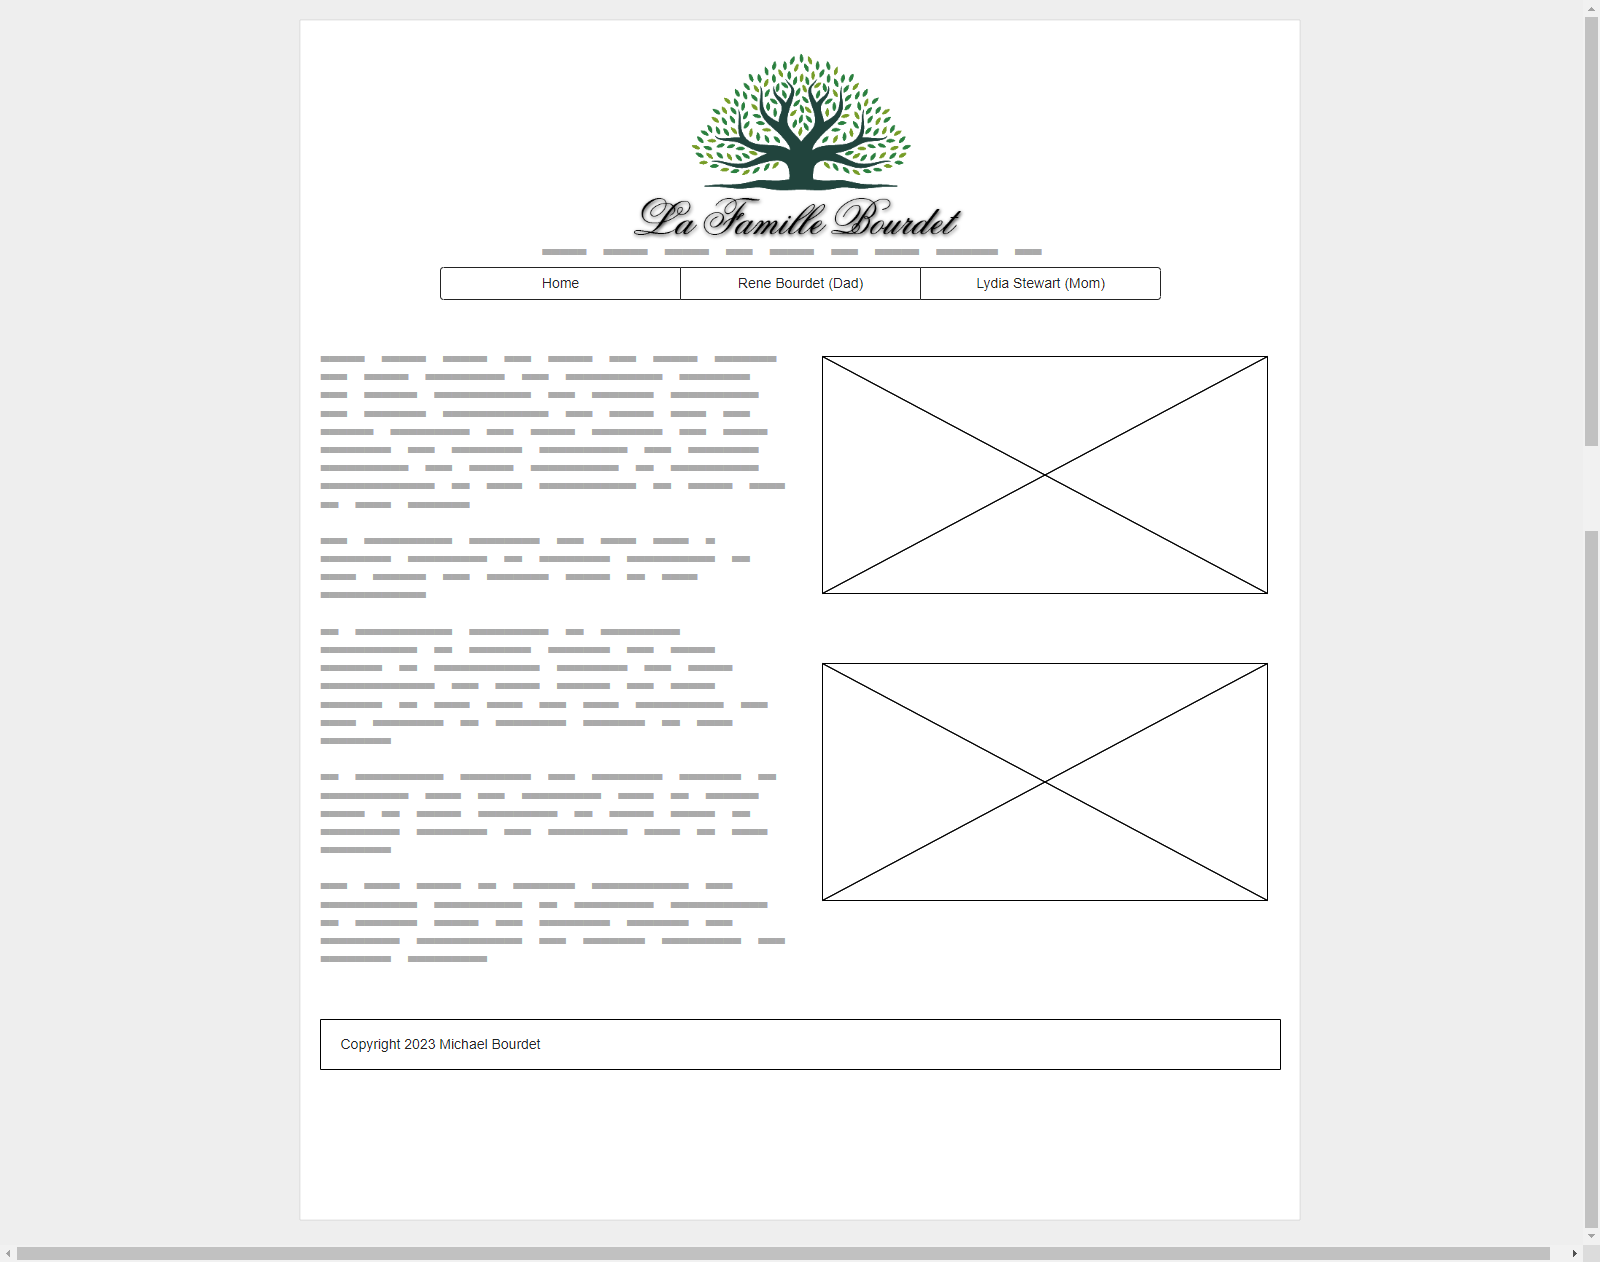
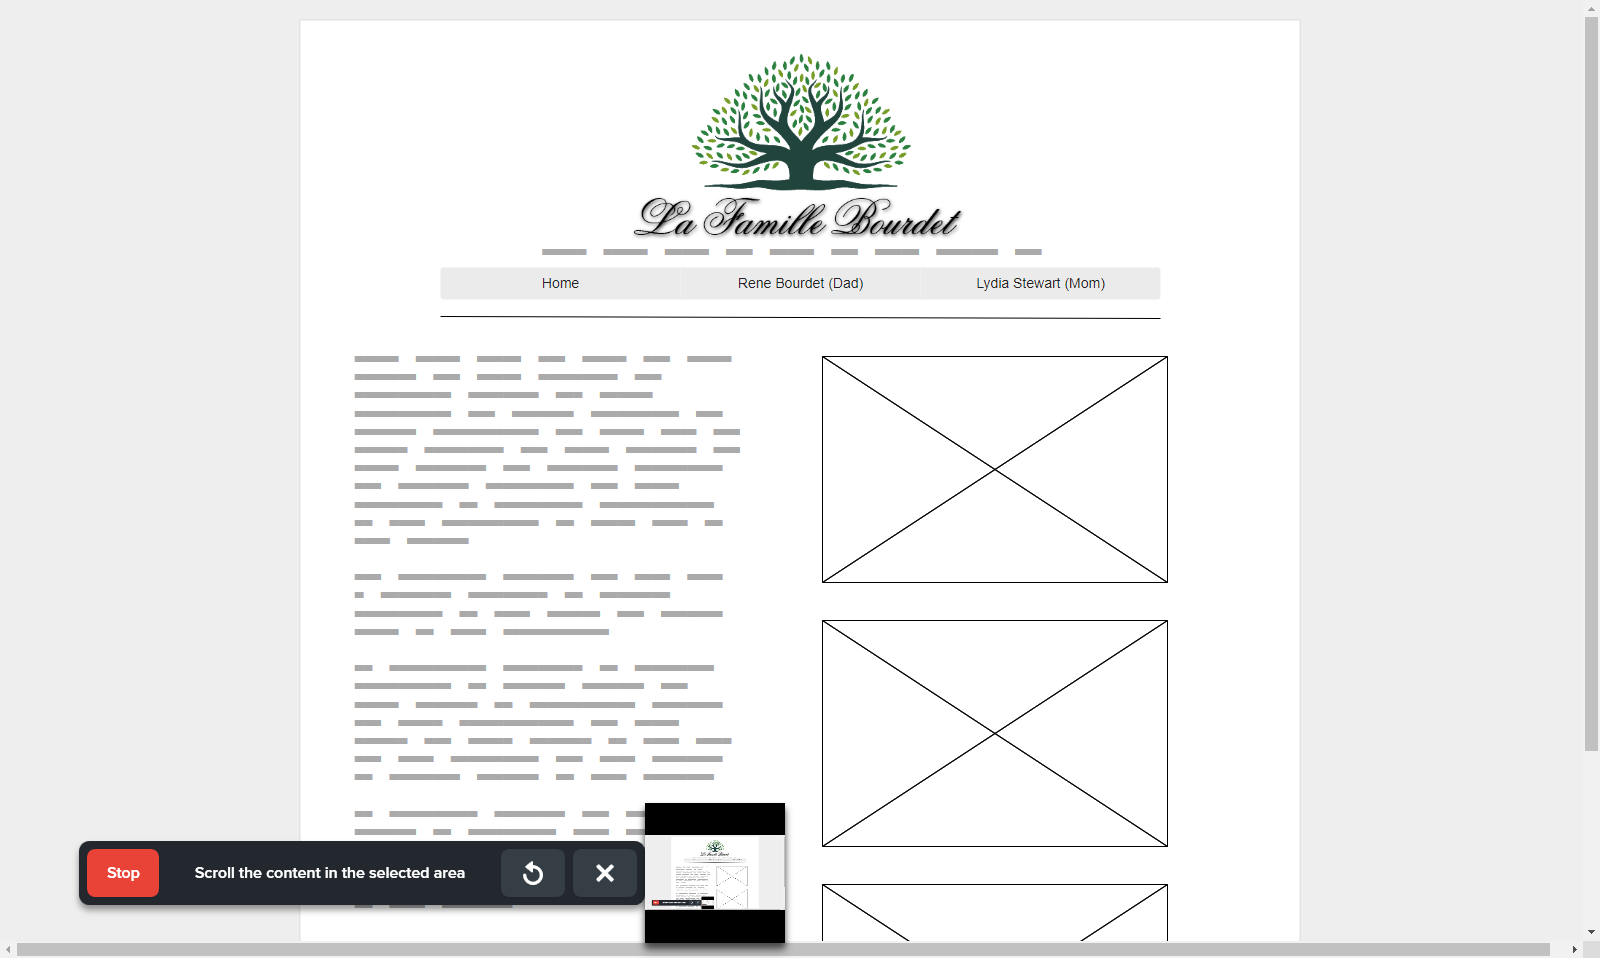
last changes (yeah sure)

diff --git a/genealogy/index.html b/genealogy/index.html
@@ -32,13 +32,14 @@
                     <li>John Paul Bourdet was born February 25, 1966.</li>
                 </ul>
                 <p>We all lived together in a three bedroom house in Saratoga, California that René purchased for $5,000.  
-                    His parents lived across the street. Grandma Lucie's brother, "Uncle Bob", was an older blind man that lived with his sister's family.  
-                    Lydia's godmother, Katherine Delaney lived next to them. </p>
-                <p>On the adjoining lot lived Louie Lacampagna, a friend of my grandfather from France.  His grandchildren were our childhood friends.  
-                    A few blocks away lived Jean Bourdet, Cyprien's brother, and our great-uncle and his wife, Tante Marie Jeane.  
-                    Next to them lived the Forcier family, Yvonne was first cousin to René.  She married Dave Forcier from Canada.  Their children Denise, Davey, Yvette, and Deanna were our 2nd cousins, and close friends.</p>
-                <p>During the summers, we would spend half the day with Grandma Lucie, tending her garden, picking fruit, and playing cards.</p>
-                <p>We would have frequent family gatherings at Grandma and Grandpa's house.  They had a "Summer house" that was basically a pavilion where we ate and sang old French songs and told stories.  In the colder months, we met inside.</p>  
+                    His parents lived across the street. Grandma Lucie's brother was an older blind man that lived with his sister's family.  
+                    Lydia's godmother, Katherine Delaney lived next to them.</p><p>
+                    On the adjoining lot lived Louie Lacampagna, a friend of my grandfather from France.  His grandchildren Bobbie and Denise Ford were our childhood friends.  
+                    A few blocks away lived Cyprien's brother, our great-uncle and his wife, Tante Marie Jeane.  
+                    Next to them lived the Forcier family, Yvonne was first cousin to René.  She married Dave Forcier from Canada.  Their children Denise, Davey, Yvette, and Deanna were our 2nd cousins, and close friends.</p><p>
+                    During the summers, we would spend half the day with Grandma Lucie, tending her garden, picking fruit, and playing cards.
+                    We would have frequent family gatherings at Grandma and Grandpa's house.  They had a "Summer house" that was basically a pavilion where we ate and sang old French songs and told stories.  In the colder months, we met inside.</p>  
+                    
             </section>
             <section class="right-side">
                 <figure><img src="images/Mom_and_Dad_edited.png" alt="Lydia and Rene 1980's">
@@ -48,13 +49,13 @@
                 <figcaption>Bourdet Family Children with Mom<br>(l-r)Lucie, Scott, Mom (seated), John,<br>Kimberly, Kathy, Mike, Cheryl</figcaption>
                 </figure>
                 <figure><img src="images/rsz_family_kids.jpg" alt="family 2020">
-                <figcaption>Bourdet Family Children with step-sisters Linda Murtha and Elaine Retzer</figcaption>
+                <figcaption>Bourdet Family Children with step-sisters<br>[c.w. from b.l.] Kathy, Linda, John,<br>Elaine, and Lucie (not shown, Mike)</figcaption>
                 </figure>
             </section>
         </main>
         <footer>
-            <p>La Famille Bourdet &copy; 2023 - Michael R. Bourdet</p>
-            <a href="site-plan.html">Site Plan</a><br>
+            <p>La Famille Bourdet &copy; 2023 - Michael R. Bourdet<br><br>
+            <a href="site-plan.html">Site Plan</a></p>
         </footer>
     </div>
 </body>

diff --git a/genealogy/site-plan.html b/genealogy/site-plan.html
@@ -135,11 +135,12 @@
           </p>
 
       <p>Images for the Home page</p>
-        <img src="images\26239058_10214579425215099_6402582308730572276_n.jpg" alt="image for homepage">
-        <img src="images\Mom_and_Dad_sm.png" alt="image for homepage">
+      <img src="images/Mom_and_Dad_edited.png" alt="image for homepage">
+      <img src="images/rsz_26239058_10214579425215099_6402582308730572276_n.jpg" alt="image for homepage">
+      <img src="images/rsz_family_kids.jpg" alt="Older children">
 
       <h3>Ren&eacute; Laurent Bourdet</h3>
-      <p>Ren&eacute; was born in San Francisco, California in 1920.  He was raised in a two-parent home on Bush Street, His father, Cyprien owned a French laundry.  His mother, Lucie also worked there.  His older brother, Pierre (Pete) worked at a bakery until he enlisted in the Army during World War II.  They lived on Bush Street in San Francisco over the top of their laundry.
+      <p>Ren&eacute; was born in San Francisco, California in 1920.  He was raised in a two-parent home on Bush Street, His father, Cyprien, owned a French laundry.  His mother, Lucie, also worked there.  His older brother, Pierre (Pete), worked at a bakery until he enlisted in the Army during World War II.  They lived on Bush Street in San Francisco over the top of their laundry.
       <p>The family was Catholic, and they worshipped at Église Notre-Dame-des-Victoires, also on Bush Street.  During High School, Ren&eacute; attended High School of Commerce on Van Ness Avenue where he excelled in Basketball.</p>
       <p>Around 1937-38, the family moved to Saratoga, California, which at that time was a famous fruit growing area now known as "Silicon Valley".  Ren&eacute;'s father bought a bunch of land with other French Americans, and created Wildwood Park, a resort and amusement park for the small community.</p>
       <p>>Ren&eacute; graduated from Los Gatos High School, and shortly after started working as a butcher at Foothill Meat Market in Saratoga.</p>
@@ -148,7 +149,7 @@
         
       </p>
       <p>Images for the Page 2</p>
-        <img src="images\BushStApartment.png" alt="image for page">
+        <img src="images\rene_sailor.jpg" alt="image for page">
         <img src="images\dd-613_USS_Laub.jpg" alt="image for page">
 
       <h3>Lydia Anne Stewart</h3>
@@ -162,8 +163,8 @@
 
       </p>
       <p>Images for the Page 3</p>
-        <img src="images\Mom_as_a_child.png" alt="image for page3">
-        <img src="images\Mom_as_adult.png" alt="image for page3">
+        <img src="images\rsz_Mom_as_a_child.png" alt="image for page3">
+        <img src="images\rsz_Mom_as_adult.png" alt="image for page3">
 
       <hr>
       <h2>

diff --git a/genealogy/Rene.html b/genealogy/Rene.html
@@ -24,7 +24,7 @@
                 <p>Ren&eacute; was born in San Francisco, California in 1920.  He was raised in a two-parent home on Bush Street, His father, Cyprien owned a French laundry.  His mother, Lucie also worked there.  His older brother, Pierre (Pete) worked at a bakery until he enlisted in the Army during World War II.  They lived on Bush Street in San Francisco over the top of their laundry.
                 <p>The family was Catholic, and they worshipped at Église Notre-Dame-des-Victoires, also on Bush Street.  During High School, Ren&eacute; attended High School of Commerce on Van Ness Avenue where he excelled in Basketball.</p>
                 <p>Around 1937-38, the family moved to Saratoga, California, which at that time was a famous fruit growing area now known as "Silicon Valley".  Ren&eacute;'s father bought a bunch of land with other French Americans, and created Wildwood Park, a resort and amusement park for the small community.</p>
-                <p>>Ren&eacute; graduated from Los Gatos High School, and shortly after started working as a butcher at Foothill Meat Market in Saratoga.</p>
+                <p>Ren&eacute; graduated from Los Gatos High School, and shortly after started working as a butcher at Foothill Meat Market in Saratoga.</p>
                 <p>He was drafted in 1942 to serve in the US Navy.  He was stationed in the New York Naval yard where he helped translate for the French ships coming in to port.  In February of 1943, he joined the crew of the USS Laub, DD 613 A Benson class destroyer where he served as ship's cook. </p>
                 <p> Upon his return, he got married to Connie ? and had two daughters, Linda, born in 1945, and Elaine born in 1947.  At some point he and Connie separated, and he met and married Lydia Anne Stewart of Ithaca, New York.</p>     
             </section>

diff --git a/extras/W09 - Challenge(1).html b/extras/W09 - Challenge(1).html
@@ -1,0 +1,23 @@
+<!DOCTYPE html>
+<html lang="en">
+<head>
+    <link rel="preconnect" href="https://fonts.googleapis.com">
+    <link rel="preconnect" href="https://fonts.gstatic.com" crossorigin>
+    <link href="https://fonts.googleapis.com/css2?family=Baskervville&family=Kameron:wght@700&family=Roboto:wght@100;400;900&display=swap" rel="stylesheet">
+    <link type="text/css" rel="stylesheet" href="W09 - Challenge.html">
+    <meta charset="UTF-8">
+    <meta name="viewport" content="width=device-width, initial-scale=1.0">
+    <title>W09 - Challenge</title>
+</head>
+<body>
+    <header>
+        <img class="hero" src="w09_ice_img.jpg" alt="skyline" width="256" height="175">
+    </header>
+    <main><p>Lorem ipsum dolor sit amet, consectetur adipiscing elit, sed do eiusmod tempor incididunt ut labore et dolore magna aliqua. Posuere sollicitudin aliquam ultrices sagittis orci. Orci porta non pulvinar neque laoreet suspendisse. Suspendisse potenti nullam ac tortor vitae. Curabitur gravida arcu ac tortor dignissim convallis aenean et tortor. Velit scelerisque in dictum non consectetur a. Feugiat sed lectus vestibulum mattis ullamcorper velit sed ullamcorper. Purus non enim praesent elementum facilisis. Leo vel orci porta non pulvinar neque laoreet. Ut placerat orci nulla pellentesque dignissim enim sit amet venenatis. Velit ut tortor pretium viverra suspendisse potenti nullam ac. Id aliquet risus feugiat in ante metus dictum at tempor.</p></main>
+    <footer>
+        <div class="read"><p>5<sup>m</sup></p><p>Read</p></div>
+        <div class="views"><p>2023</p><p>Views</p></div>
+        <div clss="comments"><p>15</p><p>Comments</p></div>
+    </footer>
+</body>
+</html>

diff --git a/genealogy/styles/style.css b/genealogy/styles/style.css
@@ -33,7 +33,6 @@ Fonts are separated by a | */
 body {
   max-width: 1200px;
   margin: 0 auto;
-  padding: 4em;
   font-size: 18px;
   text-align: left;
 }
@@ -72,13 +71,16 @@ hr {
 .left-side {
   grid-column: 1/2;
   grid-row: 1/4;
-  padding: 40px;
+  padding-left: 40px;
+  padding-right: 40px;
 }
 .right-side {
   grid-column: 2/3;
   grid-row: 1/4;
-  padding: 40px;
+  padding-left: 40px;
+  padding-right: 40px;
 }
+
 header {
   padding: 1em;
   text-align: center;
@@ -89,8 +91,19 @@ header > h1, header > h2 {
   color: var(--headline-color-on-color);
 }
 footer {
+  background-color: var(--primary-color);
+  color: white;
   grid-column: 1/3;
   grid-row: 4/5;
+  padding-left: 40px;
+  padding-right: 40px;
+}
+footer a, footer p{
+  background-color: var(--primary-color);
+  color: white;
+  /* min-width: 120px; */
+  text-decoration: none;
+  padding: 10px;
 }
 
 p {
@@ -138,20 +151,18 @@ nav {
   background-color: var(--nav-background-color);
   line-height: 2em;
   width: 100%;
-  justify-content: center;
   font-size: 1.2em;
-}
-nav  {
   list-style-type: none;
   display: flex;
-
+  justify-content: space-evenly;
 }
+
 nav a {
   padding: 1em;
-  min-width: 120px;
+  /* min-width: 120px; */
   text-decoration: none;
   padding: 10px;
-  justify-items: space-between;
+  
 
 }
 nav a:link, nav a:visited {

diff --git a/extras/W09 - Challenge(1).css b/extras/W09 - Challenge(1).css
@@ -1,0 +1,34 @@
+@import url('https://fonts.googleapis.com/css2?family=Baskervville&family=Kameron:wght@700&family=Roboto:wght@100;400;900&display=swap');
+
+body {
+    background-color: white;
+    width: 256px;
+    padding: 30;
+    align-self: center;  
+}
+header{
+    width: 100%;
+    background-color: white;
+}
+main{
+    width: 100%;
+    background-color: white;
+    text-align: center;
+}
+footer{
+    width: 100%;
+    grid-template-columns: 1fr 1fr 1fr;
+    background-color: #3F5B8B;
+}
+.read {
+    grid-column: 1/2;
+}
+.views{
+    grid-column: 2/3;
+}
+.comments{
+    grid-column: 3/4;
+}
+.hero{
+    width: 265px;
+}
